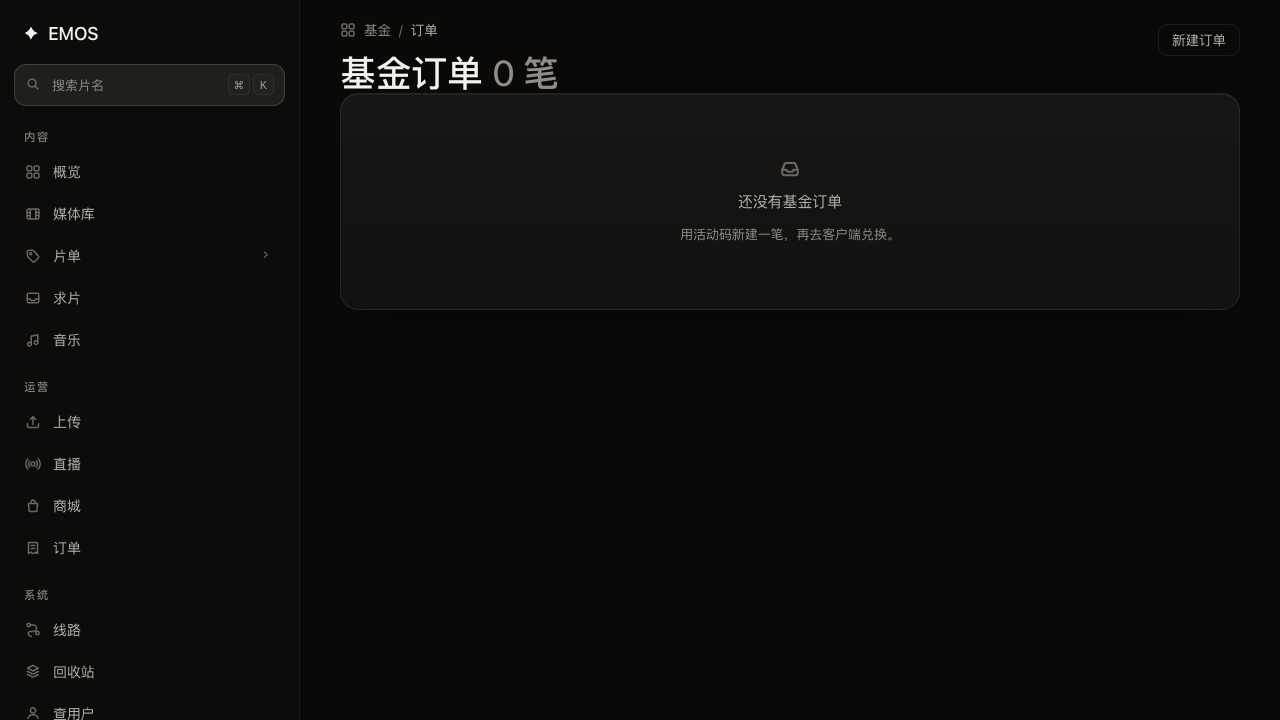
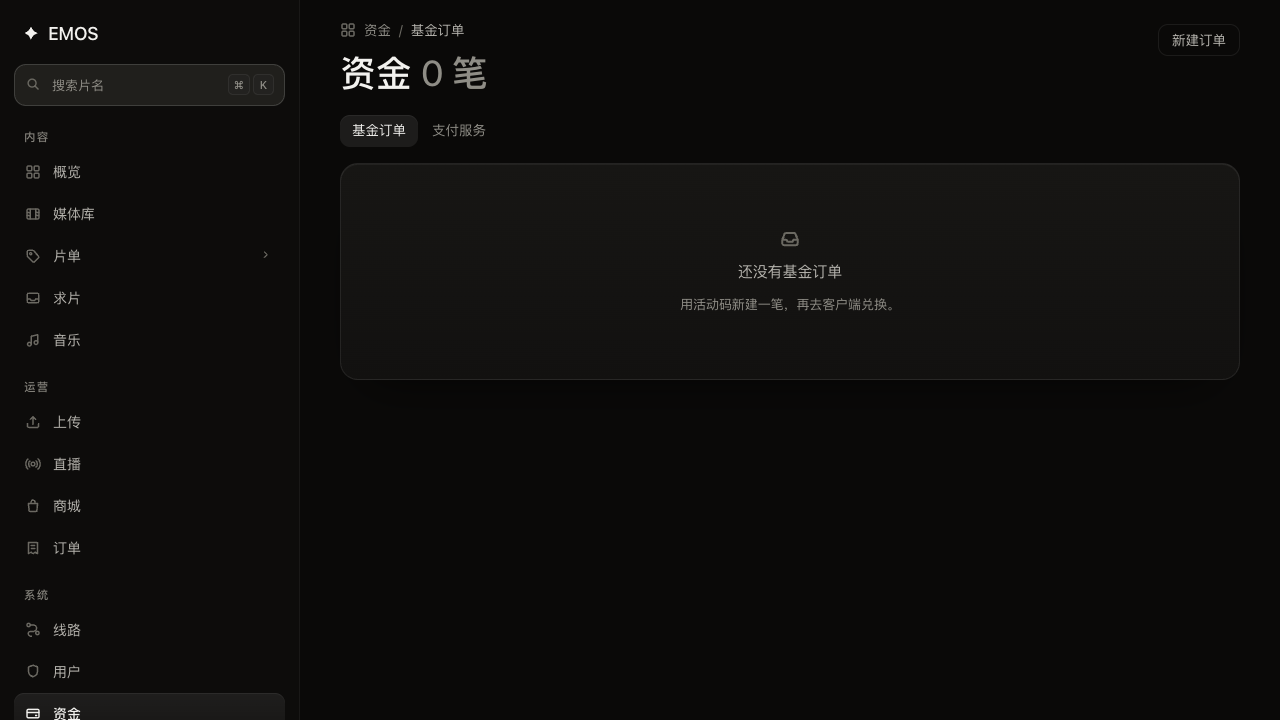
refactor(ui): 支付并入资金，少一个页面
资金 = 基金订单 + 支付服务两个 Tab：
- 胡萝卜与钱相关的两件事在一个页面里，不再各占一条侧栏
- /pay 保留深链，重定向到 /fund?tab=merchant
- PayView 支持 embedded，嵌入时不渲染自己的页头
- 侧栏移除「支付」，只留「资金」

验证：/fund 两 Tab 正常，/pay 正确重定向

diff --git a/src/views/FundView.tsx b/src/views/FundView.tsx
@@ -7,10 +7,13 @@ import { Pager } from '@/components/Pager'
 import { fundApi } from '@/api/endpoints'
 import { toast } from '@/ui/toast'
 import { formatDateTime, formatThousand } from '@/lib/format'
+import { PayView } from '@/views/PayView'
 
 type Row = Record<string, unknown>
 
-export function FundView({ page, pageSize, onPage, onPageSize }: {
+export function FundView({ tab, onTab, page, pageSize, onPage, onPageSize }: {
+  tab: 'orders' | 'merchant'
+  onTab: (tab: 'orders' | 'merchant') => void
   page: number
   pageSize: number
   onPage: (page: number) => void
@@ -61,24 +64,39 @@ export function FundView({ page, pageSize, onPage, onPageSize }: {
   return (
     <>
       <PageHeader
-        crumb={['基金', '订单']}
-        title="基金订单"
-        hint={orders.data ? `${formatThousand(total)} 笔` : undefined}
+        crumb={['资金', tab === 'orders' ? '基金订单' : '支付服务']}
+        title="资金"
+        hint={tab === 'orders' && orders.data ? `${formatThousand(total)} 笔` : undefined}
         tools={
-          <button className="btn btn--ghost" onClick={() => setCreating(true)}>
-            新建订单
-          </button>
+          tab === 'orders' ? (
+            <button className="btn btn--ghost" onClick={() => setCreating(true)}>
+              新建订单
+            </button>
+          ) : null
         }
       />
 
-      {orders.error ? <ErrorBlock error={orders.error as Error & { status?: number }} onRetry={() => orders.refetch()} /> : null}
-      {orders.isLoading ? <LoadingBlock rows={8} columns={4} /> : null}
+      <div className="toolbar">
+        <div className="tabs" role="tablist" aria-label="资金">
+          <button className="tab" role="tab" aria-selected={tab === 'orders'} onClick={() => onTab('orders')}>
+            基金订单
+          </button>
+          <button className="tab" role="tab" aria-selected={tab === 'merchant'} onClick={() => onTab('merchant')}>
+            支付服务
+          </button>
+        </div>
+      </div>
 
-      {!orders.isLoading && !orders.error && rows.length === 0 ? (
+      {tab === 'merchant' ? <PayView embedded /> : null}
+
+      {tab === 'orders' && orders.error ? <ErrorBlock error={orders.error as Error & { status?: number }} onRetry={() => orders.refetch()} /> : null}
+      {tab === 'orders' && orders.isLoading ? <LoadingBlock rows={8} columns={4} /> : null}
+
+      {tab === 'orders' && !orders.isLoading && !orders.error && rows.length === 0 ? (
         <EmptyBlock title="还没有基金订单" hint="用活动码新建一笔，再去客户端兑换。" />
       ) : null}
 
-      {rows.length > 0 ? (
+      {tab === 'orders' && rows.length > 0 ? (
         <div className="table-card">
           <table className="table">
             <thead>

diff --git a/src/router.tsx b/src/router.tsx
@@ -16,7 +16,6 @@ import { LiveView } from '@/views/LiveView'
 import { LinesView } from '@/views/LinesView'
 import { MusicView } from '@/views/MusicView'
 import { SongDetailView } from '@/views/SongDetailView'
-import { PayView } from '@/views/PayView'
 import { UserDetailView } from '@/views/UserDetailView'
 import { RecycleView } from '@/views/RecycleView'
 import { UserSearchView } from '@/views/UserSearchView'
@@ -224,14 +223,21 @@ function SongRoute() {
   return <SongDetailView songId={Number(songId)} />
 }
 
-const payRoute = createRoute({ getParentRoute: () => appLayout, path: '/pay', component: PayView })
+const payRoute = createRoute({
+  getParentRoute: () => appLayout,
+  path: '/pay',
+  beforeLoad: () => {
+    throw redirect({ to: '/fund', search: { tab: 'merchant', page: 1, size: 20 } })
+  },
+})
 
 const fundRoute = createRoute({
   getParentRoute: () => appLayout,
   path: '/fund',
-  validateSearch: (s: Record<string, unknown>): { page: number; size: number } => ({
+  validateSearch: (s: Record<string, unknown>): { page: number; size: number; tab: 'orders' | 'merchant' } => ({
     page: asPage(s.page),
     size: asPageSize(s.size),
+    tab: s.tab === 'merchant' ? 'merchant' : 'orders',
   }),
   component: FundRoute,
 })
@@ -241,6 +247,8 @@ function FundRoute() {
   const navigate = fundRoute.useNavigate()
   return (
     <FundView
+      tab={search.tab}
+      onTab={(tab) => navigate({ search: { ...search, tab } })}
       page={search.page}
       pageSize={search.size}
       onPage={(page) => navigate({ search: { ...search, page } })}

diff --git a/src/views/PayView.tsx b/src/views/PayView.tsx
@@ -16,7 +16,7 @@ const PAY_STATUS: Record<string, string> = {
   refund: '已退款',
 }
 
-export function PayView() {
+export function PayView({ embedded = false }: { embedded?: boolean } = {}) {
   const base = usePayBase()
   const [no, setNo] = useState('')
   const [lookup, setLookup] = useState('')
@@ -28,6 +28,7 @@ export function PayView() {
 
   return (
     <>
+      {!embedded ? (
       <PageHeader
         crumb={['支付']}
         title="支付"
@@ -41,6 +42,7 @@ export function PayView() {
           ) : null
         }
       />
+      ) : null}
 
       {(base.error as { status?: number } | null)?.status === 404 ? (
         <EmptyBlock

diff --git a/src/components/Sidebar.tsx b/src/components/Sidebar.tsx
@@ -51,7 +51,6 @@ const GROUPS: Array<{ label: string; items: NavItem[] }> = [
       { to: '/users', label: '用户', icon: IconShield },
       { to: '/fund', label: '资金', icon: IconWallet },
       { to: '/whisper', label: '悄悄话', icon: IconTag },
-      { to: '/pay', label: '支付', icon: IconWallet },
       { to: '/account', label: '账号', icon: IconUser, chev: true },
     ],
   },
